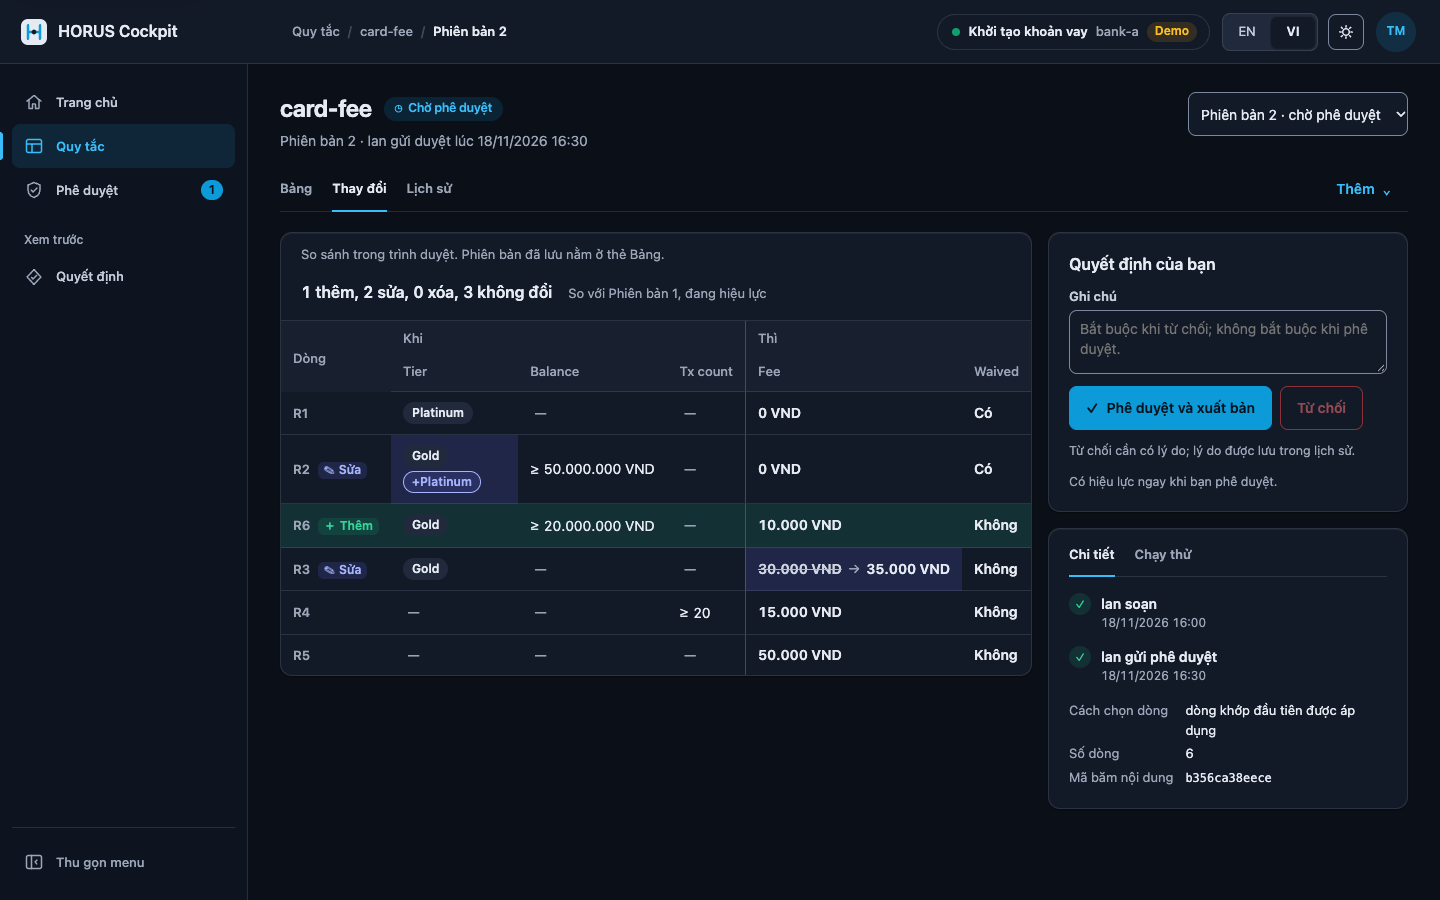
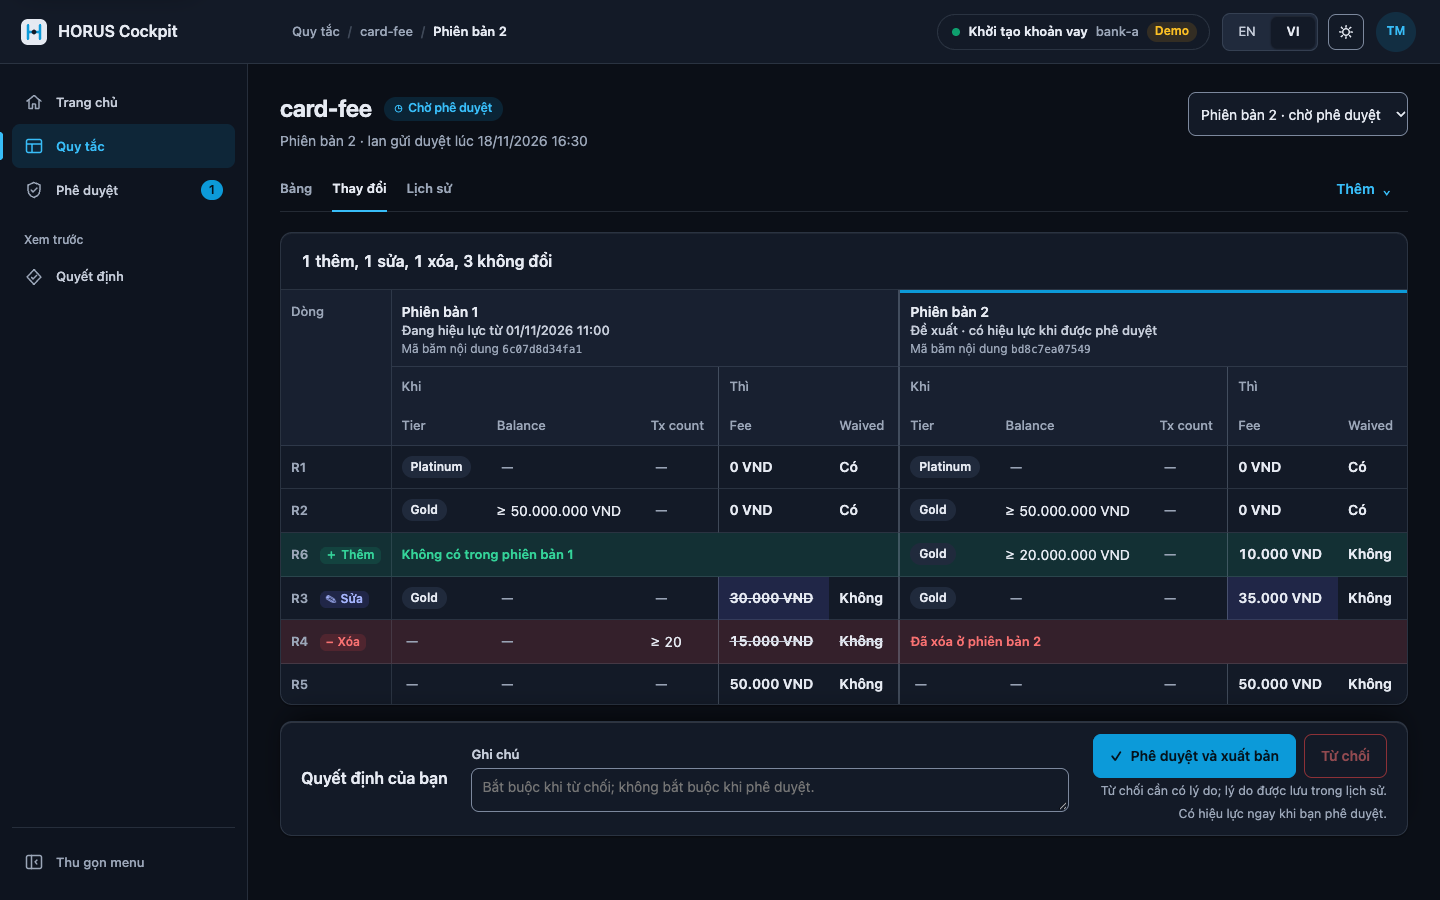
test(cockpit): Playwright checks and screenshots of the version diff (#29)
CKP-002 in English and Vietnamese, the diff request against the version in
effect, keyboard order from the diff to the decision, the docked decision
in view when the diff overflows, and at 1440x900 and 1440x1200 in light
and dark: Approve above the fold, no sideways scroll, no raw expressions
or ungrouped amounts, axe-core clean.

diff --git a/cockpit/web/e2e/version-diff.spec.ts b/cockpit/web/e2e/version-diff.spec.ts
@@ -1,0 +1,122 @@
+import AxeBuilder from '@axe-core/playwright';
+import { expect, test, type Page } from '@playwright/test';
+import { cspViolations, mockHost, mockRuleEngine, rememberLocale } from './mockHost';
+
+// CKP-002: the approver reads card-fee v2 next to v1, in effect, before the approval action. The diff comes from
+// the engine's GET .../diff (the mock engine answers in its shape). Checked at 1440x900 and 1440x1200, light and
+// dark, English and Vietnamese, with Approve fully visible without scrolling and axe-core clean.
+const VIEWPORTS = [
+  { width: 1440, height: 900 },
+  { width: 1440, height: 1200 },
+] as const;
+const THEMES = ['light', 'dark'] as const;
+const LOCALES = ['en', 'vi'] as const;
+type Locale = (typeof LOCALES)[number];
+
+const TEXT = {
+  en: { approve: 'Approve and publish', table: 'Version 1 and version 2 of card-fee, side by side', summary: '1 added, 1 changed, 1 removed, 3 unchanged', removed: 'Removed in version 2', added: 'Not in version 1', proposed: 'Proposed · takes effect when approved', fee: '35,000 VND', old: '30,000 VND' },
+  vi: { approve: 'Phê duyệt và xuất bản', table: 'Phiên bản 1 và phiên bản 2 của card-fee, đặt cạnh nhau', summary: '1 thêm, 1 sửa, 1 xóa, 3 không đổi', removed: 'Đã xóa ở phiên bản 2', added: 'Không có trong phiên bản 1', proposed: 'Đề xuất · có hiệu lực khi được phê duyệt', fee: '35.000 VND', old: '30.000 VND' },
+} as const;
+
+async function openDiff(page: Page, locale: Locale): Promise<string[]> {
+  const diffCalls: string[] = [];
+  page.on('request', (request) => {
+    const url = new URL(request.url());
+    if (url.pathname.endsWith('/diff')) diffCalls.push(`${request.method()} ${url.pathname}${url.search}`);
+  });
+  await rememberLocale(page, locale);
+  await mockHost(page, 'rules-approver');
+  await mockRuleEngine(page, 'rules-approver');
+  await page.goto('./#/rules/card-fee/2');
+  await expect(page.getByTestId('header-user')).toBeVisible();
+  return diffCalls;
+}
+
+const rowOf = (page: Page, id: string) => page.locator('tr').filter({ has: page.getByRole('rowheader').filter({ hasText: new RegExp(`^${id}\\b`) }) });
+
+for (const locale of LOCALES) {
+  test(`CKP_002_version_diff_highlights_row_changes_${locale}`, async ({ page }) => {
+    await page.setViewportSize(VIEWPORTS[0]);
+    const diffCalls = await openDiff(page, locale);
+    const text = TEXT[locale];
+    const table = page.getByRole('table', { name: text.table });
+    await expect(table).toBeVisible();
+    await expect(page.getByText(text.summary)).toBeVisible();
+    expect(diffCalls).toEqual(['GET /api/bpm/rules/v1/rule-sets/card-fee/versions/2/diff?base=1']);
+    await expect(rowOf(page, 'R6')).toHaveClass(/diff-row--added/);
+    await expect(rowOf(page, 'R6')).toContainText(text.added);
+    await expect(rowOf(page, 'R3')).toHaveClass(/diff-row--changed/);
+    await expect(rowOf(page, 'R3').locator('.diff-td--old')).toContainText(text.old);
+    await expect(rowOf(page, 'R3').locator('.diff-td--mod')).toContainText(text.fee);
+    await expect(rowOf(page, 'R4')).toHaveClass(/diff-row--removed/);
+    await expect(rowOf(page, 'R4')).toContainText(text.removed);
+    await expect(table.getByRole('columnheader').filter({ hasText: text.proposed })).toBeVisible();
+    // The diff is read before the decision: the table comes first in the page, Approve docked below it.
+    const order = await page.evaluate(([tableName, approveName]) => {
+      const tableEl = [...document.querySelectorAll('table')].find((t) => t.querySelector('caption')?.textContent === tableName);
+      const button = [...document.querySelectorAll('button')].find((b) => b.textContent.includes(approveName));
+      return tableEl && button ? tableEl.compareDocumentPosition(button) & Node.DOCUMENT_POSITION_FOLLOWING : 0;
+    }, [text.table, text.approve] as const);
+    expect(order).toBeTruthy();
+  });
+}
+
+test('CKP_002_keyboard_reaches_the_diff_region_then_the_decision', async ({ page }) => {
+  await page.setViewportSize(VIEWPORTS[0]);
+  await openDiff(page, 'en');
+  const region = page.getByRole('region', { name: TEXT.en.table });
+  await region.focus();
+  await expect(region).toBeFocused();
+  // Tab moves on from the diff to the comment, and then Reject stays disabled until a reason is written.
+  await page.keyboard.press('Tab');
+  await expect(page.getByLabel('Comment')).toBeFocused();
+  await page.keyboard.type('Matches the 2027 tariff');
+  await page.keyboard.press('Tab');
+  await expect(page.getByRole('button', { name: TEXT.en.approve })).toBeFocused();
+});
+
+test('CKP_002_the_decision_stays_docked_in_view_when_the_diff_is_taller_than_the_screen', async ({ page }) => {
+  // A short window makes the six-row diff overflow; the docked decision must not scroll away with it.
+  await page.setViewportSize({ width: 1440, height: 640 });
+  await openDiff(page, 'en');
+  await expect(page.getByRole('table', { name: TEXT.en.table })).toBeVisible();
+  const approve = page.getByRole('button', { name: TEXT.en.approve, exact: true });
+  const box = await approve.boundingBox();
+  expect((box?.y ?? 0) + (box?.height ?? 0)).toBeLessThanOrEqual(640);
+  const scrollable = await page.evaluate(() => document.documentElement.scrollHeight > window.innerHeight);
+  expect(scrollable).toBe(true);
+});
+
+for (const viewport of VIEWPORTS) {
+  for (const theme of THEMES) {
+    for (const locale of LOCALES) {
+      const file = `version-diff-${viewport.width}x${viewport.height}-${theme}-${locale}.png`;
+      test(`CKP_002_visual_${viewport.width}x${viewport.height}_${theme}_${locale}`, async ({ page }) => {
+        const violations = cspViolations(page);
+        await page.setViewportSize(viewport);
+        await page.emulateMedia({ colorScheme: theme, reducedMotion: 'reduce' });
+        await openDiff(page, locale);
+        await expect(page.locator('html')).toHaveAttribute('data-theme', theme);
+        await expect(page.getByRole('table', { name: TEXT[locale].table })).toBeVisible();
+        const approve = await page.getByRole('button', { name: TEXT[locale].approve, exact: true }).boundingBox();
+        expect(approve, 'Approve is rendered').not.toBeNull();
+        // Above the fold at both heights, and a 44 px target.
+        expect((approve?.y ?? 0) + (approve?.height ?? 0)).toBeLessThanOrEqual(viewport.height);
+        expect(approve?.height ?? 0).toBeGreaterThanOrEqual(44);
+        // Both sides fit the width: the diff region does not scroll sideways at 1440 px.
+        const region = page.getByRole('region', { name: TEXT[locale].table });
+        const widths = await region.evaluate((el) => ({ scroll: el.scrollWidth, client: el.clientWidth }));
+        expect(widths.scroll).toBeLessThanOrEqual(widths.client + 1);
+        // No raw expressions, no unformatted amounts and no spec ids on screen.
+        const main = page.locator('main');
+        await expect(main).not.toContainText(/CK-F-|CKP-0|PD-0|RLE-0/);
+        await expect(page.getByRole('table', { name: TEXT[locale].table }).locator('tbody')).not.toContainText(/==|>=|\d{5,}/);
+        await page.evaluate(async () => { await document.fonts.ready; });
+        await page.screenshot({ path: `e2e/screenshots/${file}`, fullPage: false });
+        expect(violations).toEqual([]);
+        const axe = await new AxeBuilder({ page }).withTags(['wcag2a', 'wcag2aa', 'wcag21a', 'wcag21aa', 'wcag22aa']).analyze();
+        expect(axe.violations.map((v) => `${v.id}: ${v.nodes.map((n) => n.target.join(' ')).slice(0, 3).join(' | ')}`)).toEqual([]);
+      });
+    }
+  }
+}
